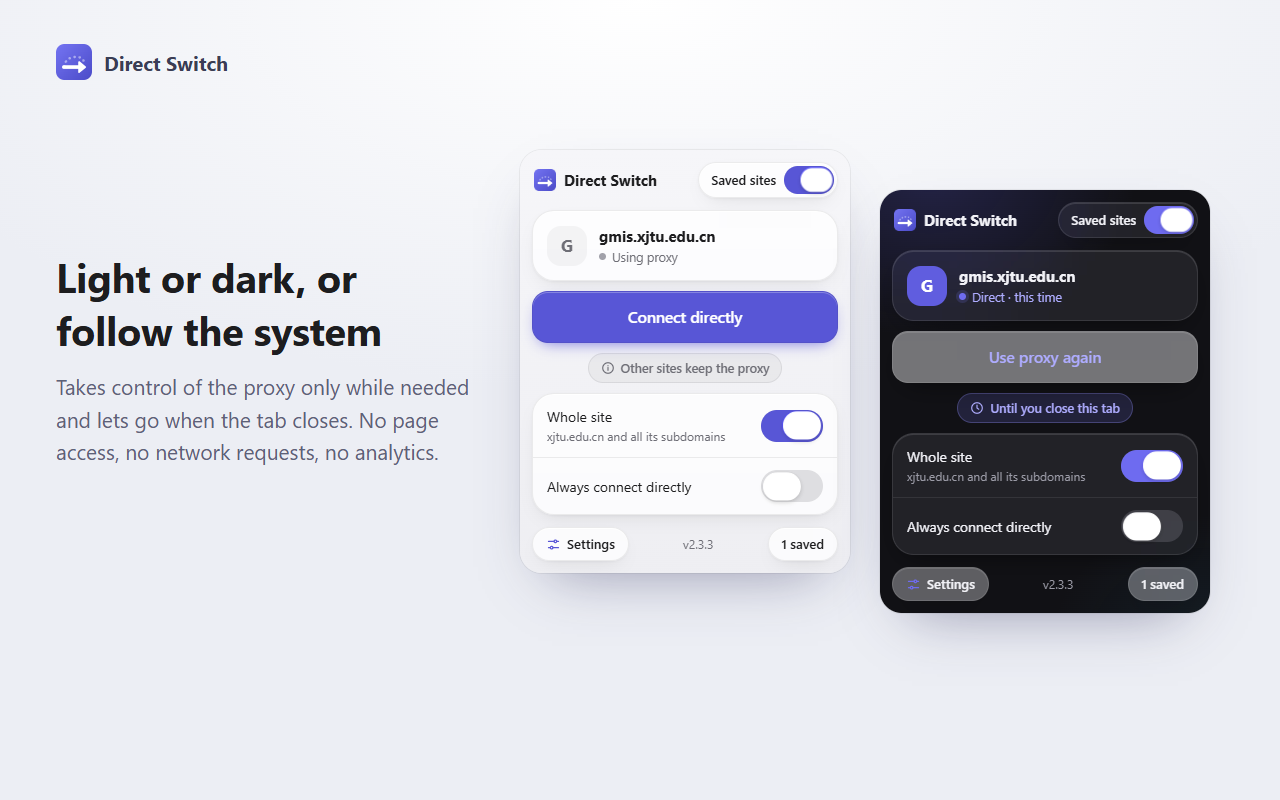
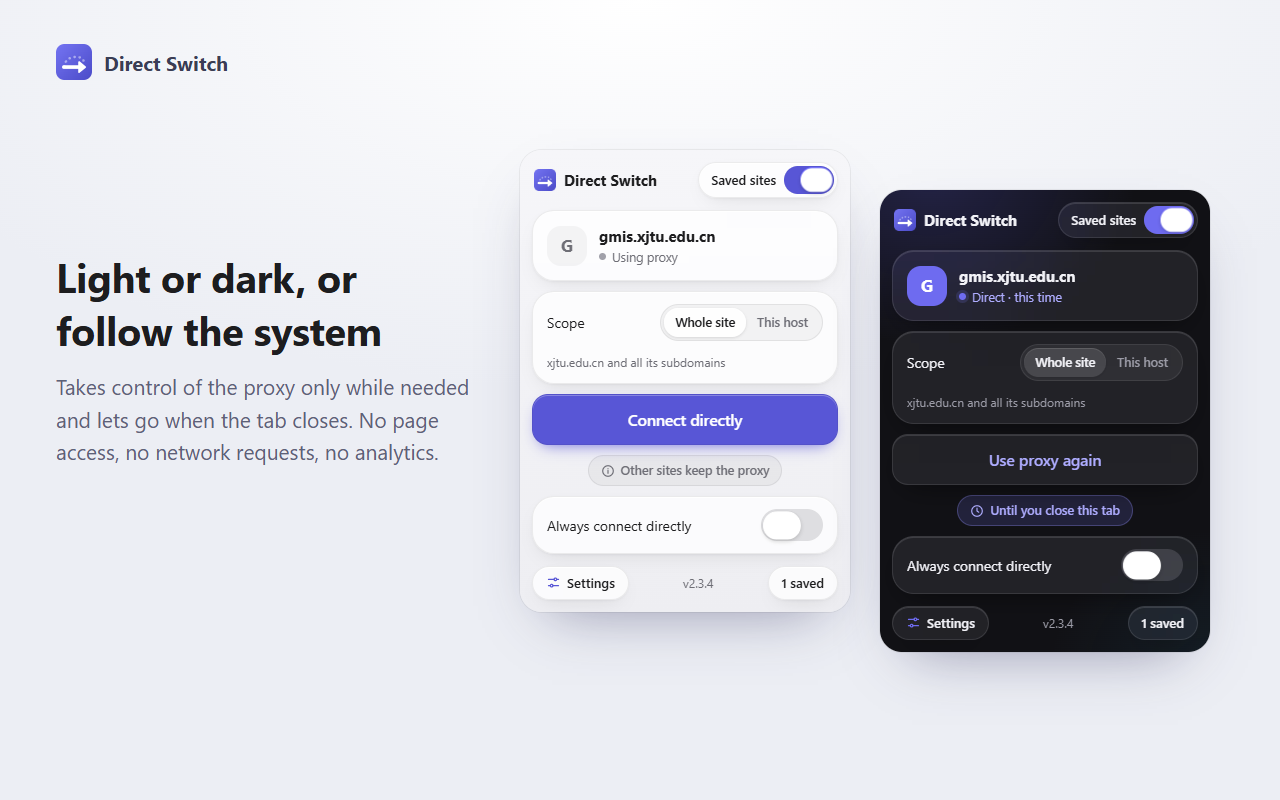
2.3.4: popup scope as its own control above the main button
"Whole site / This host" applies to both "Connect directly" and "Always
connect directly", but it sat in the same list as the "always" switch and
read like a sibling option. It is now a segmented control under the site
card, with the exact coverage spelled out; the list keeps only the
"always" switch. README wording follows.

The browser test narrows a live rule to "This host" (sibling subdomain goes
back to the proxy) and widens it again.

Changed region(s): [[0.4062, 0.3438, 0.6562, 0.7812], [0.6875, 0.5625, 0.9688, 0.8438], [0.6875, 0.4062, 0.9375, 0.5312]]

diff --git a/extension/popup.html b/extension/popup.html
@@ -34,6 +34,18 @@
         </div>
       </section>
 
+      <!-- Scope applies to both "Connect directly" and "Always connect directly". -->
+      <section id="scope" class="glass list" hidden>
+        <div class="row scope-row">
+          <span id="scope-label" class="row-text" data-i18n="scopeLabel"></span>
+          <div class="segmented" role="radiogroup" aria-labelledby="scope-label">
+            <button type="button" role="radio" data-wide="true" data-i18n="scopeSite"></button>
+            <button type="button" role="radio" data-wide="false" data-i18n="scopeHost"></button>
+          </div>
+          <small id="scope-desc" class="scope-desc"></small>
+        </div>
+      </section>
+
       <button id="toggle" class="big primary" disabled></button>
       <p id="hint" class="hint">
         <svg class="i i-info" viewBox="0 0 24 24" aria-hidden="true">
@@ -52,20 +64,6 @@
       </p>
 
       <section id="options" class="glass list" hidden>
-        <div class="row">
-          <span class="row-text">
-            <span id="wide-label" data-i18n="optWide"></span>
-            <small id="wide-desc"></small>
-          </span>
-          <input
-            id="wide"
-            type="checkbox"
-            role="switch"
-            class="switch"
-            aria-labelledby="wide-label"
-            aria-describedby="wide-desc"
-          />
-        </div>
         <div class="row">
           <span class="row-text">
             <span id="remember-label" data-i18n="optRemember"></span>

diff --git a/extension/styles.css b/extension/styles.css
@@ -666,7 +666,7 @@ select:focus {
     background 0.18s,
     color 0.18s;
 }
-.segmented button[aria-pressed='true'] {
+.segmented button:is([aria-pressed='true'], [aria-checked='true']) {
   color: var(--text);
   background: var(--surface-strong);
   box-shadow:
@@ -781,4 +781,22 @@ details p {
   display: block;
   margin: 16px 0 0 auto;
   padding: 8px 20px;
+}
+
+/* Popup scope picker: a compact segmented control inside a card row. */
+.popup .segmented {
+  flex: none;
+}
+.popup .segmented button {
+  padding: 5px 11px;
+  font-size: 12.5px;
+}
+.scope-row {
+  flex-wrap: wrap;
+  row-gap: 4px;
+}
+.scope-desc {
+  flex-basis: 100%;
+  color: var(--muted);
+  font-size: 12px;
 }

diff --git a/README.md b/README.md
@@ -41,16 +41,16 @@ Edge 和 Chrome 用**同一个安装包**。尚未上架扩展商店，需要手
 
 在打不开的网站上点击扩展图标：
 
-| 控件                       | 作用                                                                                                                                  |
-| -------------------------- | ------------------------------------------------------------------------------------------------------------------------------------- |
-| **本页直连 / 恢复代理**    | 当前网站改为直连并自动刷新。关闭这个标签页或重启浏览器后自动恢复代理。                                                                |
-| **包含整个站点**           | **默认开启**，连同同一站点的其他子域名一起直连（很多系统会从 `gmis.` 跳到 `login.` 等子域名）。关闭则只直连当前域名，会记住你的选择。 |
-| **始终直连此网站**         | 把网站加入「常驻直连」列表，以后打开就是直连。                                                                                        |
-| **常驻直连**（右上角开关） | 整个常驻列表的总开关。关闭后列表保留但不生效，只能单次直连。                                                                          |
+| 控件                                | 作用                                                                                                                                                                                    |
+| ----------------------------------- | --------------------------------------------------------------------------------------------------------------------------------------------------------------------------------------- |
+| **本页直连 / 恢复代理**             | 当前网站改为直连并自动刷新。关闭这个标签页或重启浏览器后自动恢复代理。                                                                                                                  |
+| **直连范围**（整个站点 / 仅此域名） | 同时作用于「本页直连」和「始终直连」。**默认整个站点**：连同同一站点的其他子域名一起直连（很多系统会从 `gmis.` 跳到 `login.` 等子域名）；选「仅此域名」只直连当前域名。会记住你的选择。 |
+| **始终直连此网站**                  | 把网站加入「常驻直连」列表，以后打开就是直连。                                                                                                                                          |
+| **常驻直连**（右上角开关）          | 整个常驻列表的总开关。关闭后列表保留但不生效，只能单次直连。                                                                                                                            |
 
 开关可以点，也可以拖动；只有开关本身可操作，点文字不会误触。
 
-### 「包含整个站点」是什么意思？
+### 「整个站点」是什么意思？
 
 域名从右往左逐级细分。以 `cpipc.acge.org.cn` 为例：`org.cn` 是任何人都能注册的公共后缀，`acge.org.cn` 是某个单位注册的**站点**，`cpipc.`、`www.`、`static.` 等是它下面的子域名。
 
@@ -117,7 +117,7 @@ Edge 和 Chrome 用**同一个安装包**。尚未上架扩展商店，需要手
 
 - **按域名生效**，不是按标签页：同一网站的其他标签页也会直连。网页的具体路径（如 `/pyxx/`）无法单独匹配。
 - **TUN / 虚拟网卡模式**下，浏览器直连无法绕过代理软件，需要在代理软件里给该域名加直连规则。
-- 网页的登录、视频等资源可能来自其他域名。只有部分内容加载失败时，打开「包含整个站点」或在设置页手动添加相关域名。
+- 网页的登录、视频等资源可能来自其他域名。只有部分内容加载失败时，把直连范围选为「整个站点」，或在设置页手动添加相关域名。
 - 不支持 InPrivate / 无痕窗口单独控制。
 
 更多排查方法见 [常见问题](docs/TROUBLESHOOTING.md)。

diff --git a/README.en.md b/README.en.md
@@ -29,12 +29,12 @@ Works in **Microsoft Edge** and **Google Chrome** with the same package. Not yet
 
 ## Use
 
-| Control                                | What it does                                                                                                                                                                                |
-| -------------------------------------- | ------------------------------------------------------------------------------------------------------------------------------------------------------------------------------------------- |
-| **Connect directly / Use proxy again** | Switches the current site and reloads it. Ends when you close this tab or restart the browser.                                                                                              |
-| **Whole site**                         | **On by default**: also includes the site's other subdomains, since portals often redirect, e.g. `gmis.` → `login.`. Turn it off to cover only the current host; your choice is remembered. |
-| **Always connect directly**            | Adds the site to the **Saved sites** list.                                                                                                                                                  |
-| **Saved sites** (top right)            | Master switch for the list. When off, the list is kept but ignored.                                                                                                                         |
+| Control                                | What it does                                                                                                                                                                                                                                                                 |
+| -------------------------------------- | ---------------------------------------------------------------------------------------------------------------------------------------------------------------------------------------------------------------------------------------------------------------------------- |
+| **Connect directly / Use proxy again** | Switches the current site and reloads it. Ends when you close this tab or restart the browser.                                                                                                                                                                               |
+| **Scope** (Whole site / This host)     | Applies to both “Connect directly” and “Always connect directly”. **Whole site by default**: also includes the site's other subdomains, since portals often redirect, e.g. `gmis.` → `login.`. Choose “This host” to cover only the current host. Your choice is remembered. |
+| **Always connect directly**            | Adds the site to the **Saved sites** list.                                                                                                                                                                                                                                   |
+| **Saved sites** (top right)            | Master switch for the list. When off, the list is kept but ignored.                                                                                                                                                                                                          |
 
 Switches can be tapped or dragged; only the switch itself reacts, not its label. The UI follows the browser's language (English and Simplified Chinese).
 
@@ -83,7 +83,7 @@ Differences are within noise (93 vs 108 ms is one 15.6 ms Windows timer tick). P
 
 - Rules are **per domain**, not per tab or per path.
 - Browser DIRECT cannot bypass a client running in **TUN / virtual adapter** mode; add a DIRECT rule in the client instead.
-- Pages may load logins or video from other domains. Use **Whole site** or add those domains in Settings.
+- Pages may load logins or video from other domains. Use the **Whole site** scope or add those domains in Settings.
 - No separate InPrivate / Incognito control.
 
 ## Permissions and privacy

diff --git a/docs/TROUBLESHOOTING.md b/docs/TROUBLESHOOTING.md
@@ -12,7 +12,7 @@ _Other sites stop loading → the proxy port in Settings doesn't match your clie
 
 1. 刷新或重新打开页面，结束已有的连接。
 2. 代理软件是否开着 **TUN / 虚拟网卡 / 增强模式**？这时浏览器直连无法绕过它，请在代理软件的规则里给该域名加 `DIRECT`。
-3. 只有部分内容失败（登录、验证码、视频）？这些资源可能在别的域名上。打开「包含整个站点」，或按 F12 → 网络面板找到失败的域名，在设置页添加。
+3. 只有部分内容失败（登录、验证码、视频）？这些资源可能在别的域名上。把直连范围选为「整个站点」，或按 F12 → 网络面板找到失败的域名，在设置页添加。
 4. 校内系统可能本身就要求校园网或学校 VPN，这与代理无关。
 
 _Browser DIRECT does not bypass TUN mode, and some resources live on other domains._

diff --git a/CHANGELOG.md b/CHANGELOG.md
@@ -1,5 +1,9 @@
 # Changelog
 
+## 2.3.4 — 2026-10-26
+
+- **Popup: scope is now its own control.** "Whole site / This host" sits above the main button because it applies to both "Connect directly" and "Always connect directly"; the list below keeps only the "always" switch.
+
 ## 2.3.3 — 2026-10-26
 
 - **"Whole site" is now on by default in the popup**, and the last choice is remembered. Tested on real portals: `gmis.xjtu.edu.cn` redirects to `org.xjtu.edu.cn` and `login.xjtu.edu.cn`, so a single-host "Connect directly" left those on the proxy and the page still failed. The browser test now checks that a sibling subdomain is direct.
